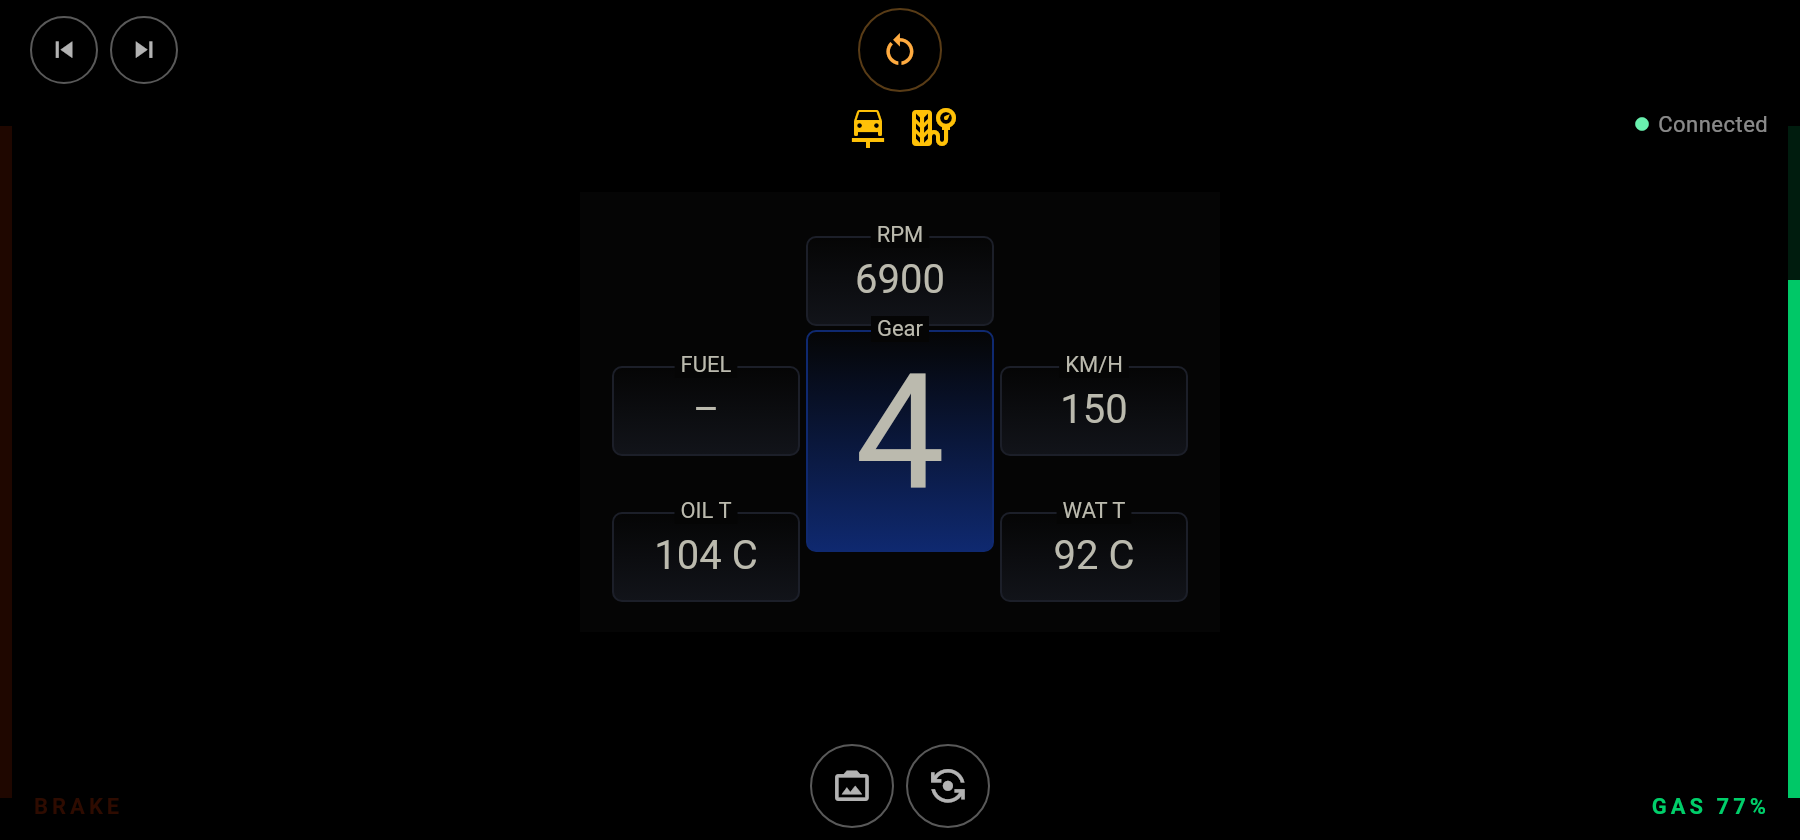
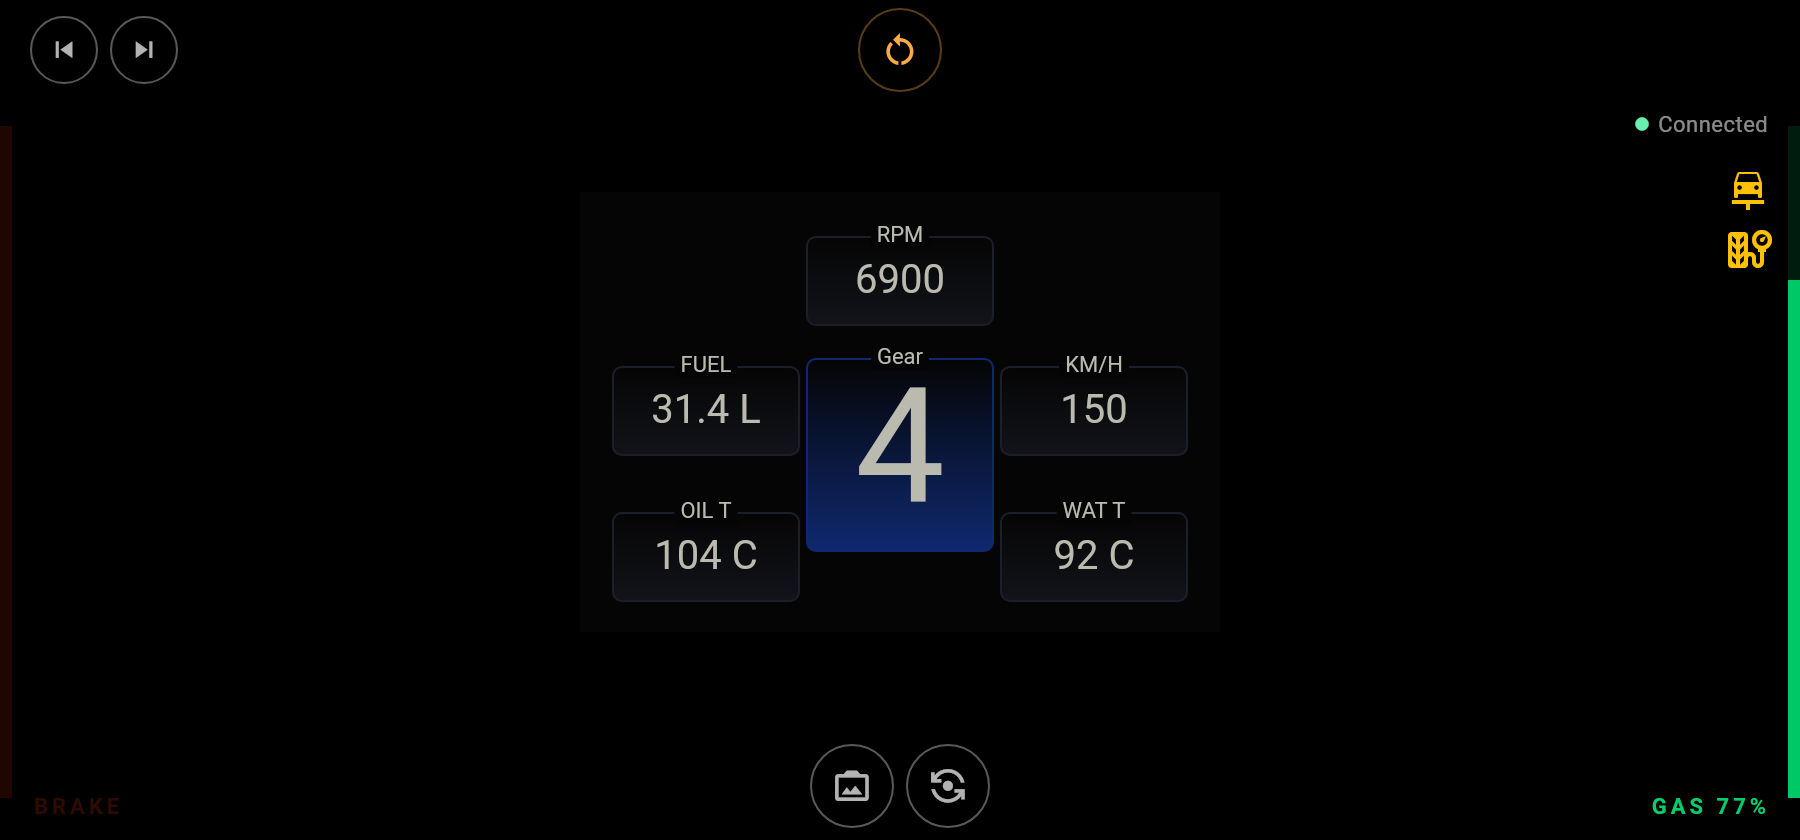
fix(themes): clean up the Civetta layout and the warning lights row
- Civetta: smaller gear and speed, tachometer numbers no longer overlap
  the logo, ABS/ESC/TCS on one row under the hub, odometer inside the
  dial, side bars and labels kept inside the wings
- active warning lights stack on the right edge under the connection
  status instead of covering the top of the dashboards
- gallery screenshots refreshed

diff --git a/app/lib/themes/civetta/civetta_theme.dart b/app/lib/themes/civetta/civetta_theme.dart
@@ -52,86 +52,97 @@ class CivettaTheme extends ControlTheme {
       Positioned(left: 312, width: 400, top: y, height: height, child: Center(child: child));
 
   List<Widget> _header(Telemetry t, DashboardData data) => [
-        _centered(4, 16, const Text('GEAR', style: TextStyle(color: _yellow, fontSize: 14, fontWeight: FontWeight.bold))),
+        _centered(6, 14, const Text('GEAR', style: TextStyle(color: _yellow, fontSize: 12, fontWeight: FontWeight.bold))),
         _centered(
-          18,
-          62,
+          20,
+          44,
           Text(t.gearLabel,
               style: TextStyle(
-                  color: data.gearFlash == null ? Colors.white : _yellow, fontSize: 58, fontWeight: FontWeight.w600, height: 1)),
+                  color: data.gearFlash == null ? Colors.white : _yellow, fontSize: 42, fontWeight: FontWeight.w600, height: 1)),
         ),
         _centered(
-          78,
-          62,
+          66,
+          48,
           Text(DashFormat.speed(t, kmh: data.useKmh),
-              style: const TextStyle(color: Colors.white, fontSize: 64, fontWeight: FontWeight.w600, height: 1)),
+              style: const TextStyle(color: Colors.white, fontSize: 46, fontWeight: FontWeight.w600, height: 1)),
         ),
-        _centered(138, 16,
-            Text(data.useKmh ? 'KMH' : 'MPH', style: const TextStyle(color: Colors.orangeAccent, fontSize: 13, fontWeight: FontWeight.bold))),
+        _centered(116, 14,
+            Text(data.useKmh ? 'KMH' : 'MPH', style: const TextStyle(color: Colors.orangeAccent, fontSize: 11, fontWeight: FontWeight.bold))),
       ];
 
   Widget _at(double x, double y, Widget child) => Positioned(left: x, top: y, child: child);
 
   List<Widget> _lamps(Telemetry t) => [
-        _at(250, 112, Text(t.driveMode?.toUpperCase() ?? 'MODE', style: const TextStyle(color: Colors.white, fontSize: 14))),
-        _at(212, 140, WarningLamp(icon: Icons.light_mode, on: t.lowBeam == true || t.highBeam == true, color: Colors.greenAccent, size: 24)),
-        _at(262, 138, WarningLamp(icon: Icons.battery_alert, on: t.engineRunning == null ? null : !t.engineRunning!, color: CivettaPainter.red, size: 26)),
-        _at(318, 136, WarningLamp(icon: Icons.tire_repair, on: t.tirePressures == null ? null : t.lowTirePressure(), color: Colors.orange, size: 28)),
-        _at(660, 136, WarningLamp(icon: Icons.car_repair, on: t.checkEngine, color: CivettaPainter.red, size: 28)),
-        _at(718, 138, WarningLamp(icon: Icons.local_gas_station, on: t.lowFuel, color: Colors.orange, size: 26)),
-        _at(768, 136, WarningLamp(icon: Icons.local_parking, on: t.parkingBrake, color: CivettaPainter.red, size: 28)),
-        _at(310, 182, WarningLamp(icon: Icons.arrow_back, on: _blink(t.signalLeft, t.hazard), color: Colors.greenAccent, size: 34)),
-        _at(682, 182, WarningLamp(icon: Icons.arrow_forward, on: _blink(t.signalRight, t.hazard), color: Colors.greenAccent, size: 34)),
+        _at(240, 114, Text(t.driveMode?.toUpperCase() ?? 'MODE', style: const TextStyle(color: Colors.white, fontSize: 13))),
+        _at(206, 138, WarningLamp(icon: Icons.light_mode, on: t.lowBeam == true || t.highBeam == true, color: Colors.greenAccent, size: 22)),
+        _at(250, 138, WarningLamp(icon: Icons.battery_alert, on: t.engineRunning == null ? null : !t.engineRunning!, color: CivettaPainter.red, size: 22)),
+        _at(294, 138, WarningLamp(icon: Icons.tire_repair, on: t.tirePressures == null ? null : t.lowTirePressure(), color: Colors.orange, size: 22)),
+        _at(708, 138, WarningLamp(icon: Icons.car_repair, on: t.checkEngine, color: CivettaPainter.red, size: 22)),
+        _at(752, 138, WarningLamp(icon: Icons.local_gas_station, on: t.lowFuel, color: Colors.orange, size: 22)),
+        _at(796, 138, WarningLamp(icon: Icons.local_parking, on: t.parkingBrake, color: CivettaPainter.red, size: 22)),
+        _at(300, 186, WarningLamp(icon: Icons.arrow_back, on: _blink(t.signalLeft, t.hazard), color: Colors.greenAccent, size: 30)),
+        _at(694, 186, WarningLamp(icon: Icons.arrow_forward, on: _blink(t.signalRight, t.hazard), color: Colors.greenAccent, size: 30)),
       ];
 
   static bool? _blink(bool? signal, bool? hazard) => signal == null && hazard == null ? null : (signal ?? false) || (hazard ?? false);
 
   List<Widget> _insideDial(Telemetry t, DashboardData data) => [
         _centered(
-          240,
-          30,
-          const Text('Civetta', style: TextStyle(color: Colors.white, fontSize: 26, fontStyle: FontStyle.italic, fontWeight: FontWeight.w700)),
+          262,
+          26,
+          const Text('Civetta', style: TextStyle(color: Colors.white, fontSize: 20, fontStyle: FontStyle.italic, fontWeight: FontWeight.w700)),
         ),
-        _at(552, 280, _assistText('ESC', active: t.escOn, known: t.hasEsc ?? t.escActive != null)),
-        _at(552, 360, _assistText('TCS', active: t.tcsOn, known: t.hasTcs ?? t.tcsActive != null)),
-        _at(430, 280, _assistText('ABS', active: t.absOn, known: t.hasAbs ?? t.absActive != null)),
         _centered(
-          440,
+          392,
           20,
+          Row(mainAxisSize: MainAxisSize.min, children: [
+            _assistText('ABS', active: t.absOn, known: t.hasAbs ?? t.absActive != null),
+            const SizedBox(width: 14),
+            _assistText('ESC', active: t.escOn, known: t.hasEsc ?? t.escActive != null),
+            const SizedBox(width: 14),
+            _assistText('TCS', active: t.tcsOn, known: t.hasTcs ?? t.tcsActive != null),
+          ]),
+        ),
+        _centered(
+          446,
+          18,
           Text('${DashFormat.distance(t.odometer, kmh: data.useKmh)} ${data.useKmh ? 'km' : 'mi'}',
-              style: const TextStyle(color: _dim, fontSize: 16)),
+              style: const TextStyle(color: _dim, fontSize: 12)),
         ),
       ];
 
   Widget _assistText(String label, {required bool active, required bool known}) => Text(
         label,
         style: TextStyle(
-          fontSize: 18,
+          fontSize: 13,
           fontWeight: FontWeight.bold,
-          color: !known ? Colors.transparent : (active ? Colors.orangeAccent : _dim),
+          color: !known ? Colors.white10 : (active ? Colors.orangeAccent : _dim),
         ),
       );
 
+  /// Side wings: the usable area is x 150..320 (left) and 704..874 (right),
+  /// between the slanted red edge and the dial.
   List<Widget> _wing({required bool left, required Telemetry t}) {
-    final x = left ? 150.0 : 694.0;
+    final x = left ? 150.0 : 704.0;
     Widget row(String label, double? value, int segments, {Color? first, Color? last}) => SizedBox(
-          width: 220,
+          width: 170,
           child: Row(children: [
-            SizedBox(width: 62, child: Text(label, style: const TextStyle(color: _dim, fontSize: 13))),
-            Expanded(child: SegmentBar(value: value, segments: segments, thickness: 14, firstColor: first, lastColor: last)),
+            SizedBox(width: 50, child: Text(label, style: const TextStyle(color: _dim, fontSize: 11))),
+            Expanded(child: SegmentBar(value: value, segments: segments, thickness: 11, firstColor: first, lastColor: last)),
           ]),
         );
+    final caption = TextStyle(color: Colors.white.withValues(alpha: 0.9), fontSize: 18);
     if (left) {
       return [
-        _at(x, 270, row('OIL', _range(t.oilTemp, 60, 130), 4, last: CivettaPainter.red)),
+        _at(x + 14, 272, row('OIL', _range(t.oilTemp, 60, 130), 4, last: CivettaPainter.red)),
         _at(x, 300, row('WATER', _range(t.waterTemp, 60, 120), 6, first: Colors.blueAccent, last: CivettaPainter.red)),
-        _at(x + 40, 340, Text(DashFormat.clock(DateTime.now()), style: const TextStyle(color: Colors.white, fontSize: 22))),
+        _at(x + 44, 336, Text(DashFormat.clock(DateTime.now()), style: caption)),
       ];
     }
     return [
-      _at(x, 270, row('BOOST', _range(t.boost, 0, 6), 4, last: CivettaPainter.red)),
+      _at(x, 272, row('BOOST', _range(t.boost, 0, 6), 4, last: CivettaPainter.red)),
       _at(x, 300, row('FUEL', t.fuel, 6, first: CivettaPainter.red)),
-      _at(x + 70, 340, Text('${DashFormat.integer(t.envTemp)}°C', style: const TextStyle(color: Colors.white, fontSize: 22))),
+      _at(x + 60, 336, Text('${DashFormat.integer(t.envTemp)}°C', style: caption)),
     ];
   }
 

diff --git a/app/lib/features/vehicle_status/widgets/warning_overlay.dart b/app/lib/features/vehicle_status/widgets/warning_overlay.dart
@@ -83,14 +83,15 @@ class _WarningOverlayState extends State<WarningOverlay> {
     final popping = _popping;
     return IgnorePointer(
       child: Stack(children: [
+        // Active warnings stack on the right edge, under the connection
+        // status, where no theme draws (the dashboard is centred).
         Positioned(
-          top: 0,
-          left: 0,
-          right: 0,
-          child: Row(mainAxisAlignment: MainAxisAlignment.center, children: [
+          top: 28,
+          right: 14,
+          child: Column(mainAxisSize: MainAxisSize.min, children: [
             for (final w in _active)
               Padding(
-                padding: const EdgeInsets.symmetric(horizontal: 4),
+                padding: const EdgeInsets.symmetric(vertical: 3),
                 child: Icon(warningIcon(w), color: _color(w), size: 24),
               ),
           ]),

diff --git a/app/lib/themes/civetta/civetta_painter.dart b/app/lib/themes/civetta/civetta_painter.dart
@@ -129,10 +129,10 @@ class CivettaPainter extends CustomPainter {
       final dir = Offset(math.sin(a), -math.cos(a));
       canvas.drawLine(center + dir * (radius - 38), center + dir * (radius - 22), tick);
       final label = TextPainter(
-        text: TextSpan(text: '$k', style: const TextStyle(color: Colors.white70, fontSize: 20, fontFamily: 'Roboto')),
+        text: TextSpan(text: '$k', style: const TextStyle(color: Colors.white70, fontSize: 16, fontFamily: 'Roboto')),
         textDirection: TextDirection.ltr,
       )..layout();
-      final pos = center + dir * (radius - 58);
+      final pos = center + dir * (radius - 54);
       label.paint(canvas, pos - Offset(label.width / 2, label.height / 2));
     }
   }
